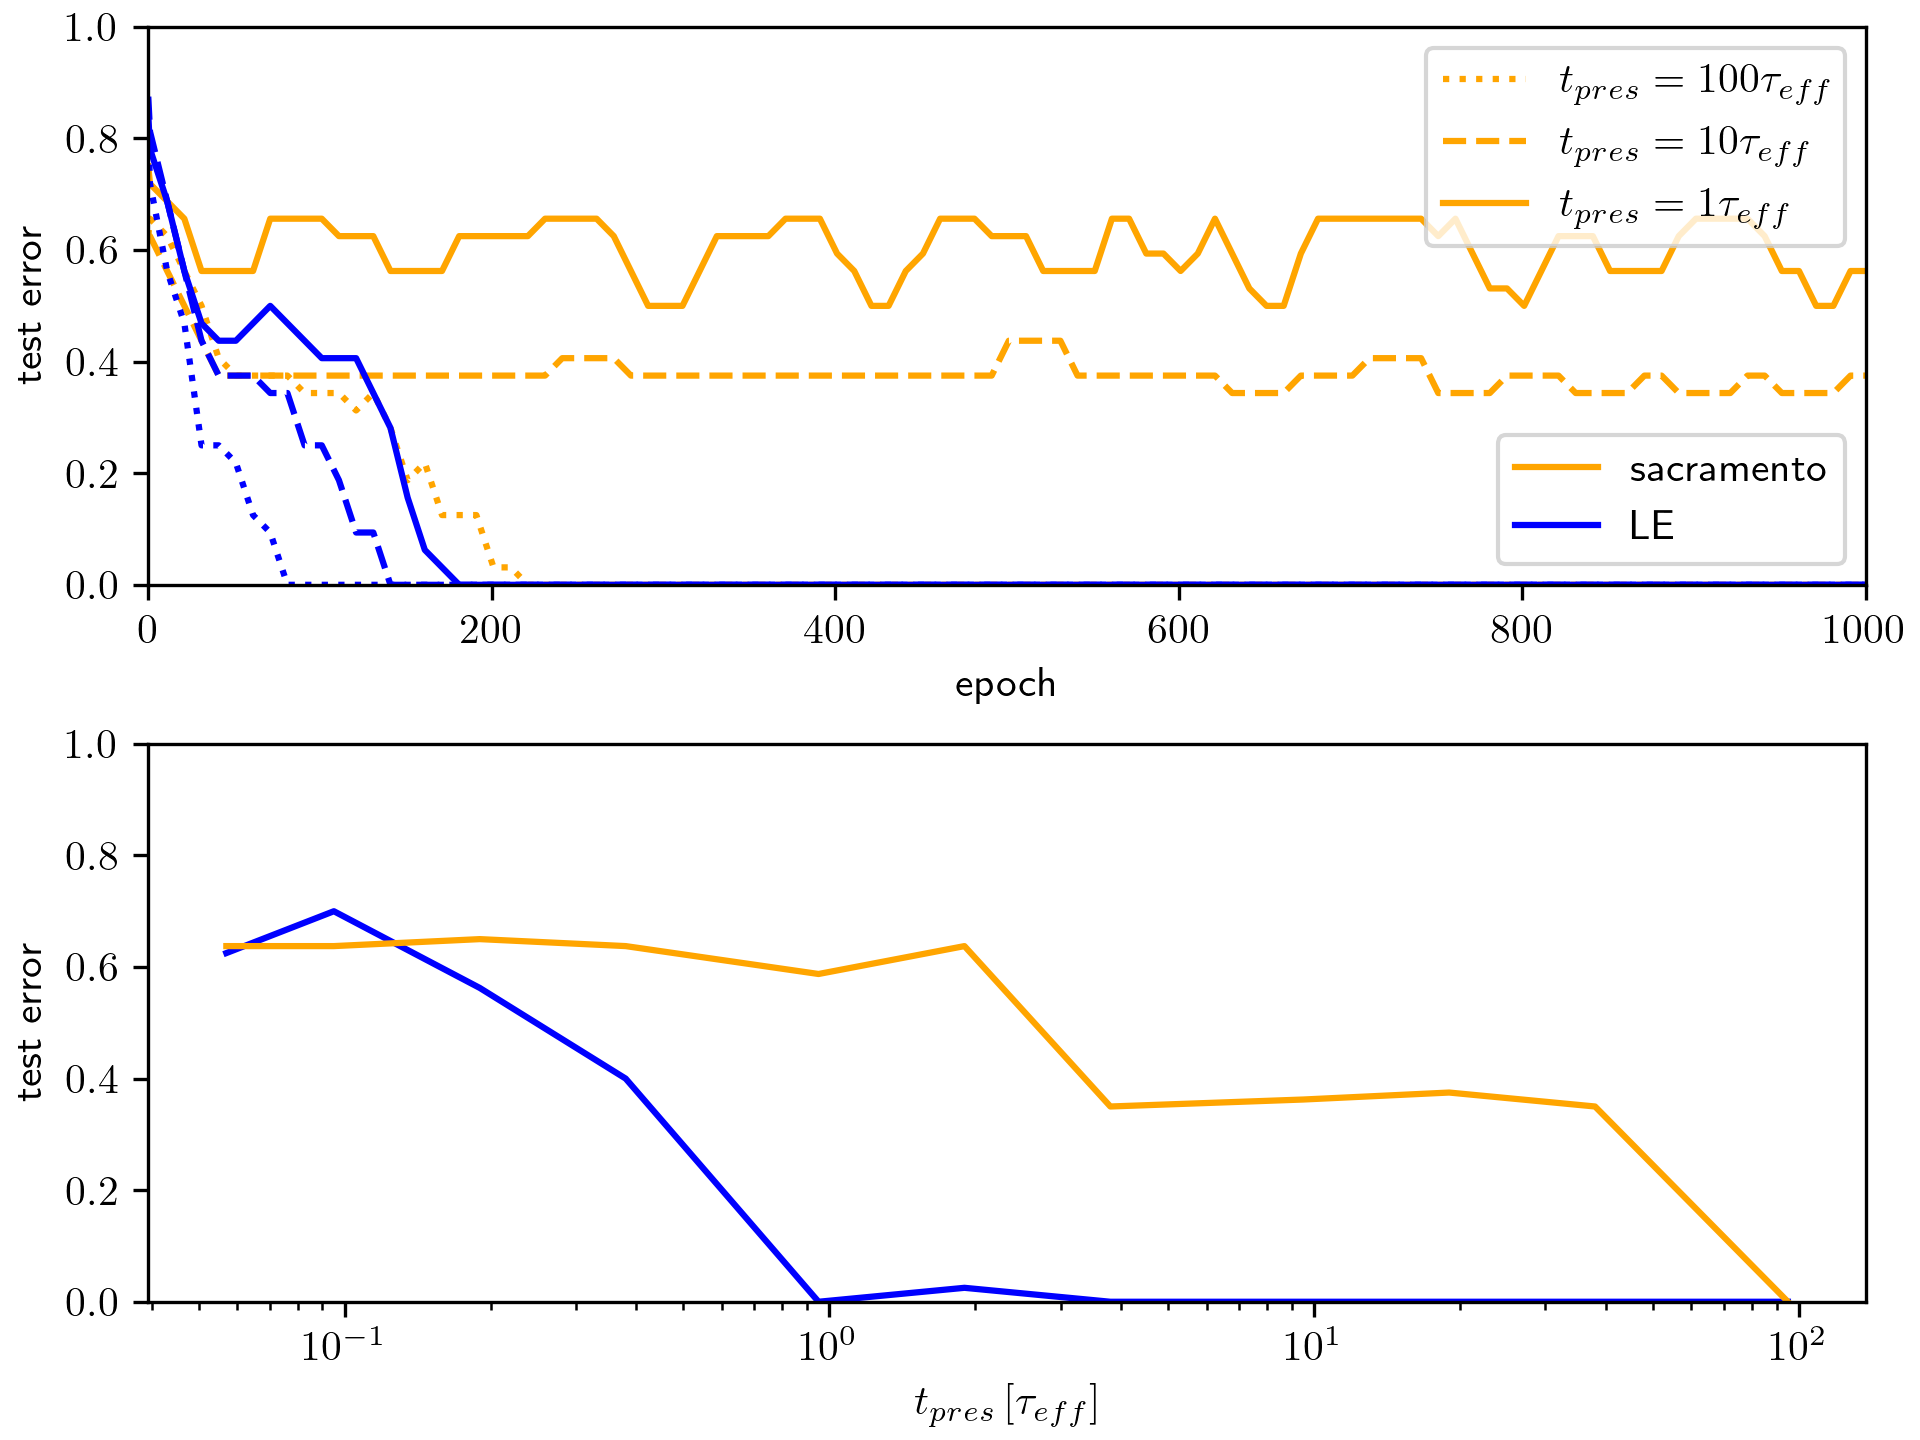
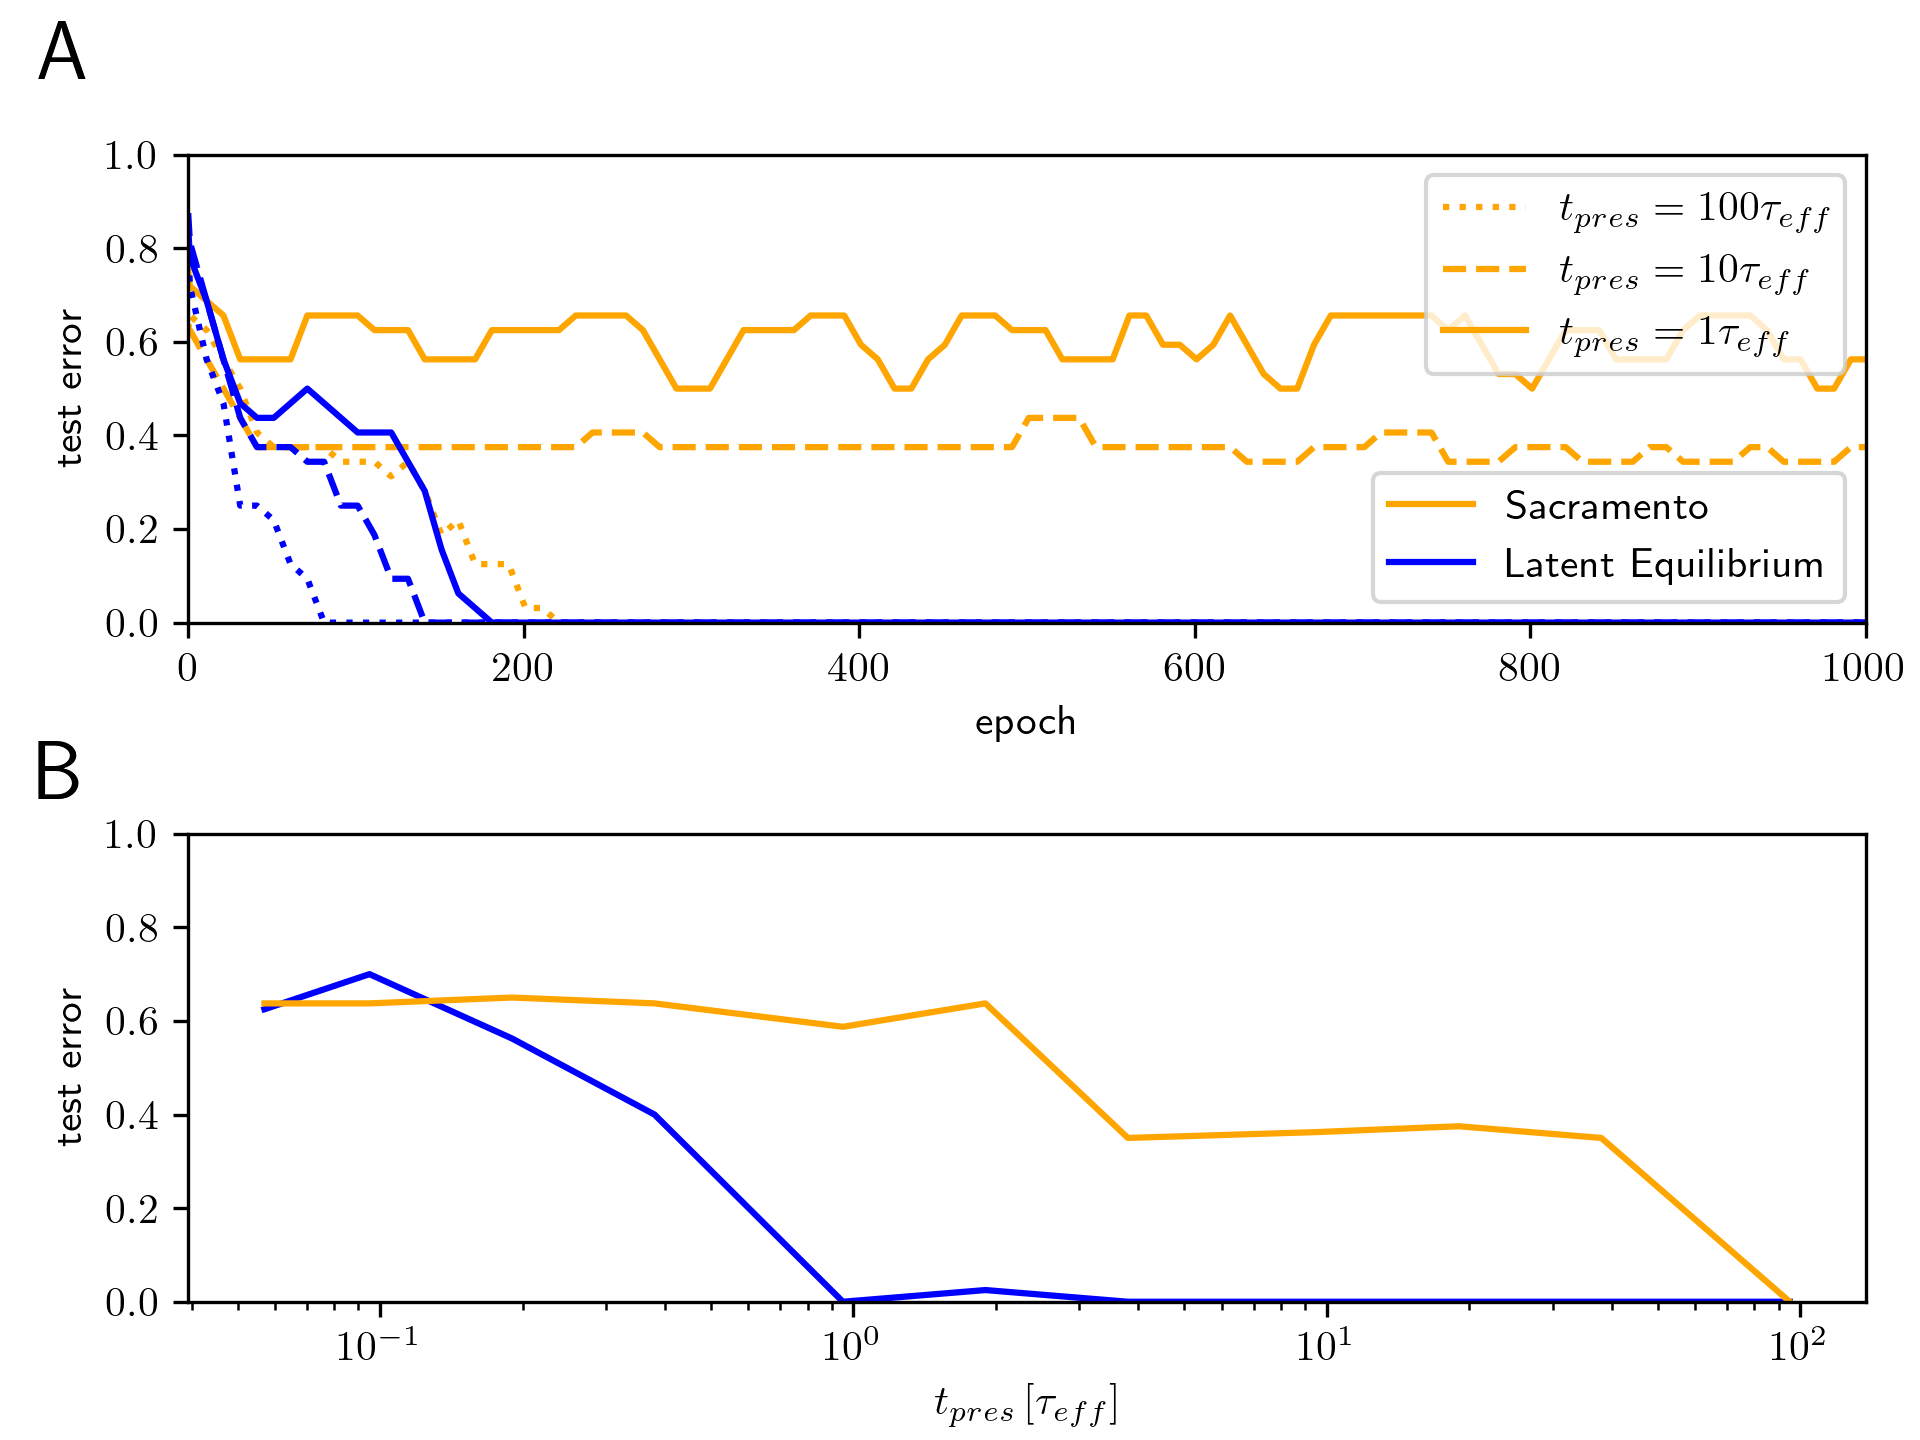
remade some figures

diff --git a/pyramidal_microcircuit/scripts/fig_9_weight_scale_c_m.py b/pyramidal_microcircuit/scripts/fig_9_weight_scale_c_m.py
@@ -1,0 +1,97 @@
+import json
+import os
+import re
+import sys
+
+import matplotlib.pyplot as plt
+import numpy as np
+import src.plot_utils as plot_utils
+import src.utils as utils
+
+styles_weight_scale = {1: "solid",
+                       5: "dashed",
+                       10: "dotted"}
+
+
+colors_c_m = {1: "green",
+              2: "orange",
+              5: "blue",
+              10: "red"}
+
+
+filter_window = 4
+if __name__ == "__main__":
+
+    plot_utils.setup_plt()
+
+    args = sys.argv[1:]
+
+    dirname = args[0]
+    out_file = args[1]
+
+    all_configs = sorted(os.listdir(dirname))
+    fig, [ax0, ax1] = plt.subplots(2, 1)
+
+    orig_data_1 = []
+    le_data_1 = []
+
+    tau_eff = 1 / 0.19
+
+    accuracies = {c_m: [] for c_m in [1, 2, 5, 10]}
+    for config in all_configs:
+
+        with open(os.path.join(dirname, config, "progress.json")) as f:
+            progress = json.load(f)
+        with open(os.path.join(dirname, config, "params.json")) as f:
+            params = json.load(f)
+
+        weight_scale = int(params["weight_scale"])
+        c_m = int(params["c_m_api"])
+        acc = progress["test_acc"]
+
+        final_acc = np.mean([datapoint[1] for datapoint in acc[-10:]])  # average over last 10 accuracy readings
+        orig_data_1.append((weight_scale, final_acc))
+
+        times = [entry[0] for entry in acc]
+        acc = [1-entry[1] for entry in acc]
+        accuracies[c_m].append(final_acc)
+        ax0.plot(times, utils.rolling_avg(acc, filter_window),
+                 color=colors_c_m[c_m], linestyle=styles_weight_scale[weight_scale])
+        # ax0.plot(times, acc,
+        #  label=r"$t_{{pres}}={} \tau_{{eff}}$".format(round(t_pres)), color="orange", linestyle=linestyles[params["sim_time"]])
+
+    # ax0.legend()
+    le_data_1 = sorted(le_data_1)
+    orig_data_1 = sorted(orig_data_1)
+
+    le_data_1 = [[t, 1-acc] for [t, acc] in le_data_1]
+    orig_data_1 = [[t, 1-acc] for [t, acc] in orig_data_1]
+    correllation = [[k, np.mean(v)] for [k, v] in sorted(accuracies.items())]
+    ax1.plot(correllation)
+
+    ax0.set_ylim(0, 1)
+    ax1.set_ylim(0, 1)
+
+    ax0.set_xlabel("epoch")
+    ax0.set_ylabel("test error")
+    ax1.set_xlabel("Apical compartment capacitance")
+    ax1.set_ylabel("test error")
+
+    ax0.annotate("A", xy=(0.02, 0.985), xycoords='figure fraction',
+                 horizontalalignment='left', verticalalignment='top',
+                 fontsize=20)
+
+    ax0.annotate("B", xy=(0.02, 0.485), xycoords='figure fraction',
+                 horizontalalignment='left', verticalalignment='top',
+                 fontsize=20)
+
+    dummy_lines = [[ax1.plot((0, -1), color="black", linestyle=stl)[0], r"weight scale = {}".format(ws)]
+                   for (ws, stl) in styles_weight_scale.items()]
+    legend2 = ax0.legend(*zip(*dummy_lines), loc=1)
+
+    dummy_lines_2 = [[ax1.plot((0, -1), color=col)[0], r"c_m = {}".format(c_m)] for [c_m, col] in colors_c_m.items()]
+    legend1 = ax0.legend(*zip(*dummy_lines_2), loc=4)
+    # sax0.add_artist(legend1)
+    ax0.add_artist(legend2)
+
+    plt.savefig(out_file)
